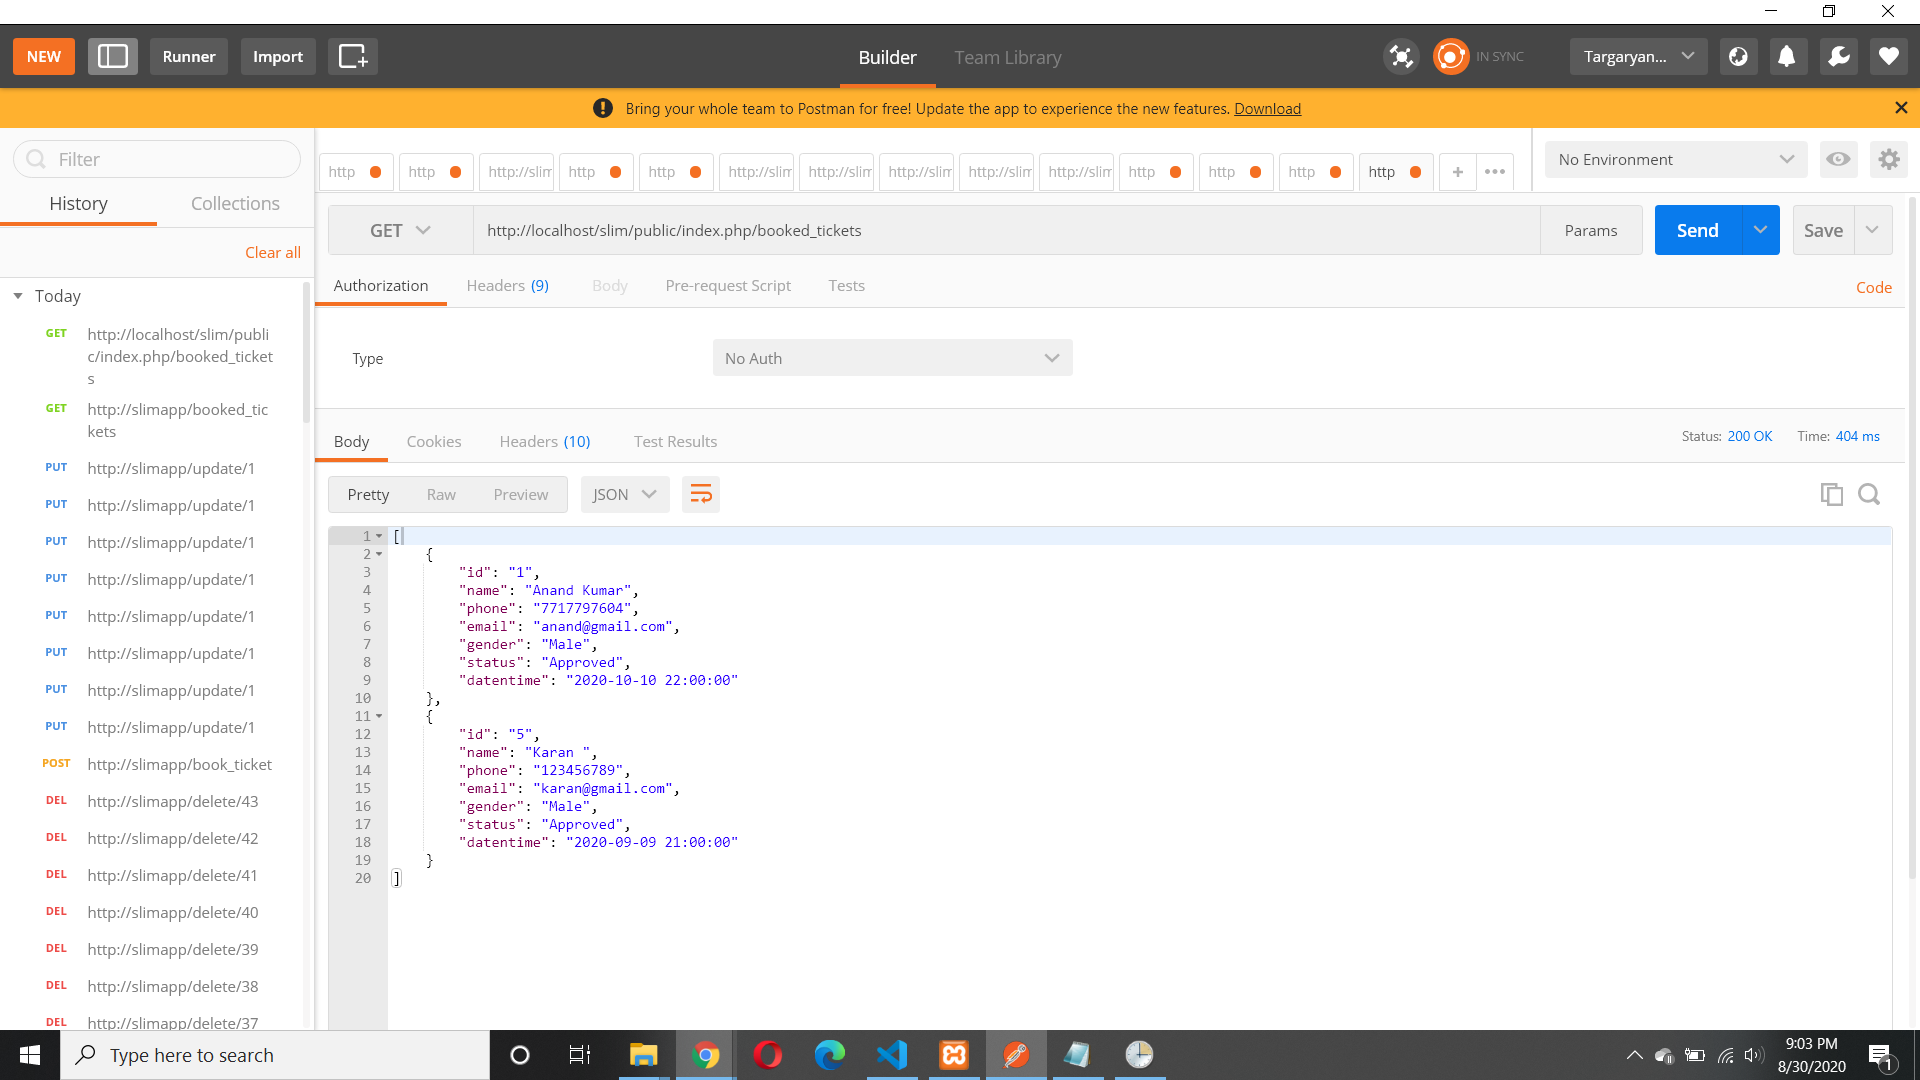
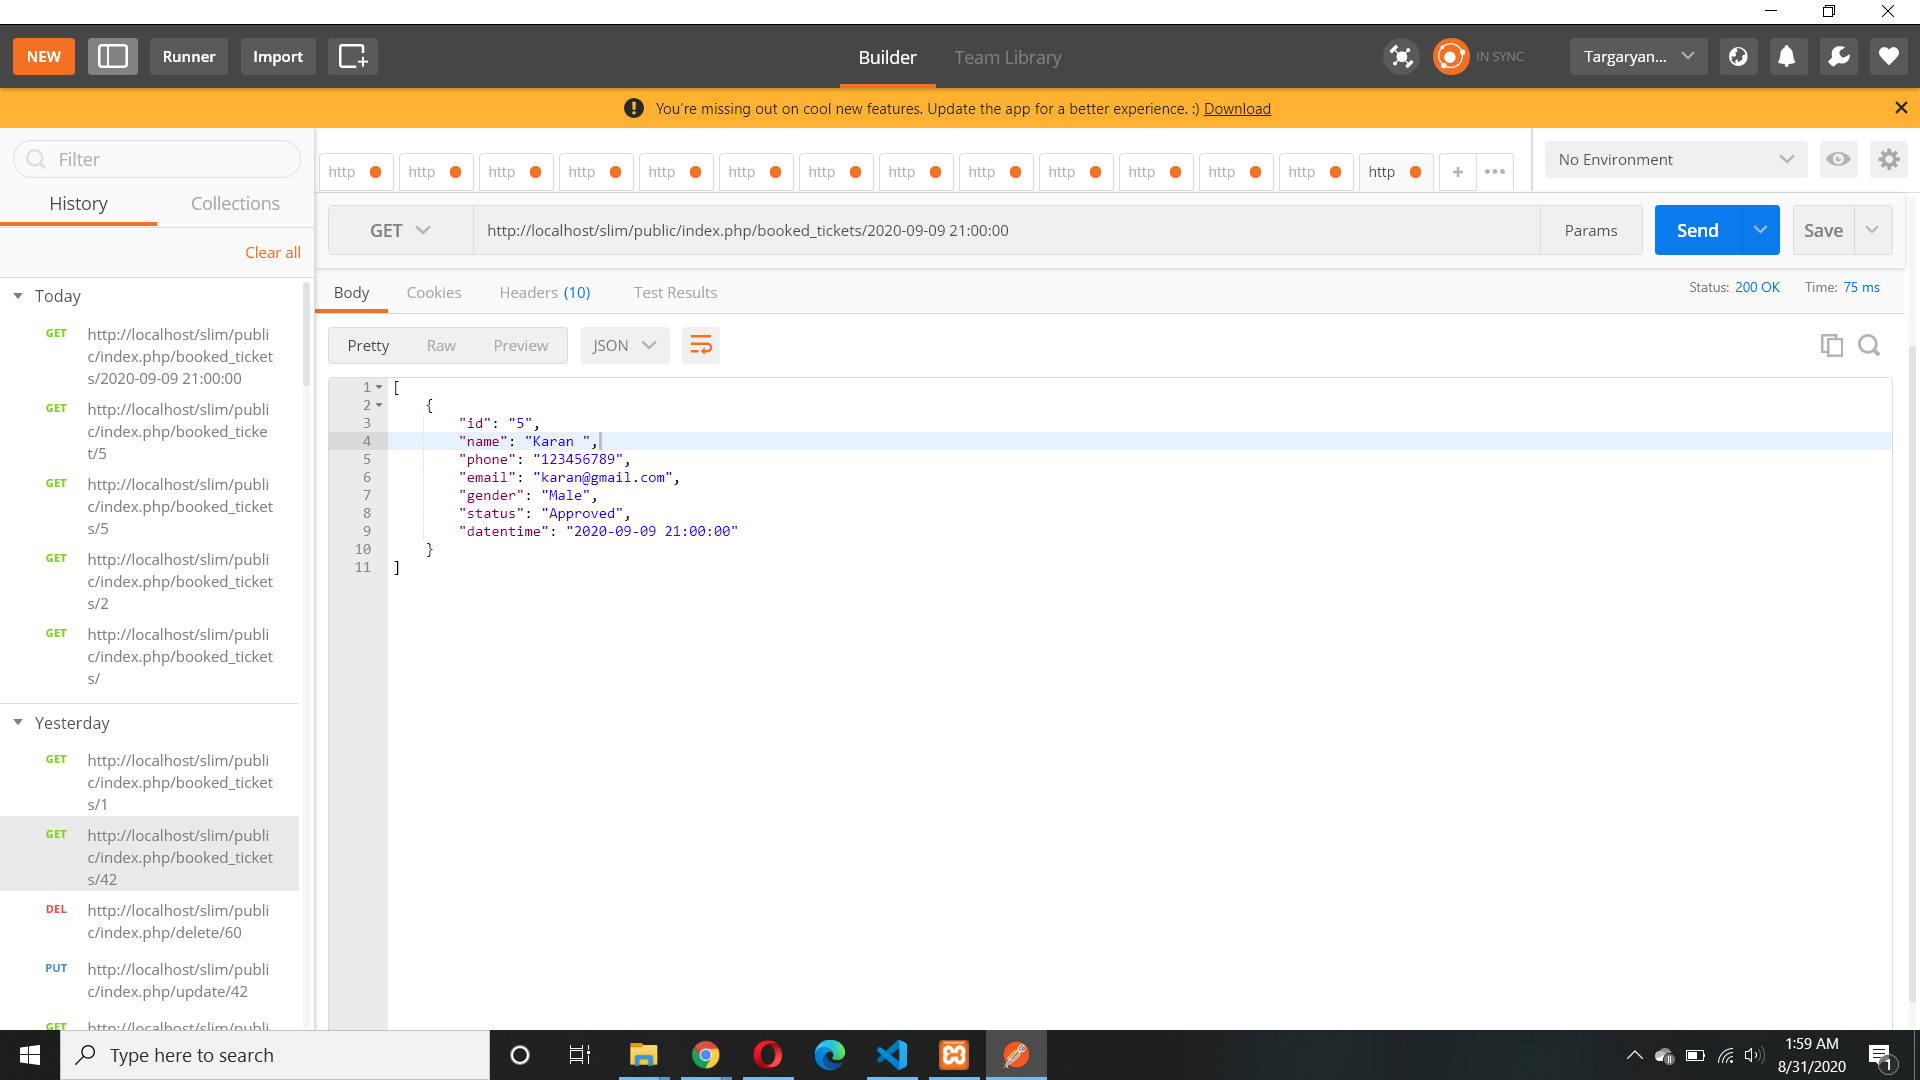
Updates being pushed1

diff --git a/src/routes/customers.php b/src/routes/customers.php
@@ -16,8 +16,10 @@ $app->add(function ($req, $res, $next) {
             ->withHeader('Access-Control-Allow-Methods', 'GET, POST, PUT, DELETE, OPTIONS');
 });
 
-$app->get('/booked_tickets', function(Request $request, Response $response){
-    $sql = "SELECT * FROM bookings";
+$app->get('/booked_tickets/{timings}', function(Request $request, Response $response, $args) {
+    $datentime = $request->getAttribute('timings');
+    echo $datentime;
+    $sql = "SELECT * FROM bookings WHERE datentime='$datentime'";
 
     try{
         $db = new db();
@@ -34,7 +36,7 @@ $app->get('/booked_tickets', function(Request $request, Response $response){
     }
 });
 
-$app->get('/booked_tickets/{id}', function(Request $request, Response $response){
+$app->get('/booked_ticket/{id}', function(Request $request, Response $response){
     $id = $request->getAttribute('id');
 
     $sql = "SELECT * FROM bookings WHERE id = $id";

diff --git a/README.md b/README.md
@@ -2,6 +2,19 @@
 
 This is a REST api built with the SlimPHP framework and uses MySQL for storage.
 
+This API helps fetch ticket data from DB, or update, delete or create tickets. Also, tickets are automatically deleted after 8 hours of their show time. MongoDB's TTL index has been used to achieve auto deletion after expiry.
+
+
+##Assumptions
+
+1.As no details about timing was provided, it is assumed that the timing is in 24-hours format
+
+2.It is assumed that the bookings are made taking into account only start time, no end time is considered for a show.
+
+3.Movie length isn't considered in booking ticket.
+
+
+
 ### Description
 
 A table named bookings has been created with the following given description.
@@ -24,14 +37,14 @@ $ composer
 ### API Endpints
 ```sh
 
-$ GET http://localhost/slim/public/index.php/booked_tickets  ->  It displays a list of all the bookings made along with user details.
+$ GET http://localhost/slim/public/index.php/booked_tickets/{timing}  ->  It displays a list of all the bookings made along with user details.
 ```
 
 ![](ScreenShots/GetRequest.png)
 
 ```sh
 
-$ GET http://localhost/slim/public/index.php/booked_tickets/{id}  ->  It displays the details of booking of that specific id.
+$ GET http://localhost/slim/public/index.php/booked_ticket/{id}  ->  It displays the details of booking of that specific id.
 ```
 ![](ScreenShots/GetDetailsByID.png)
 
